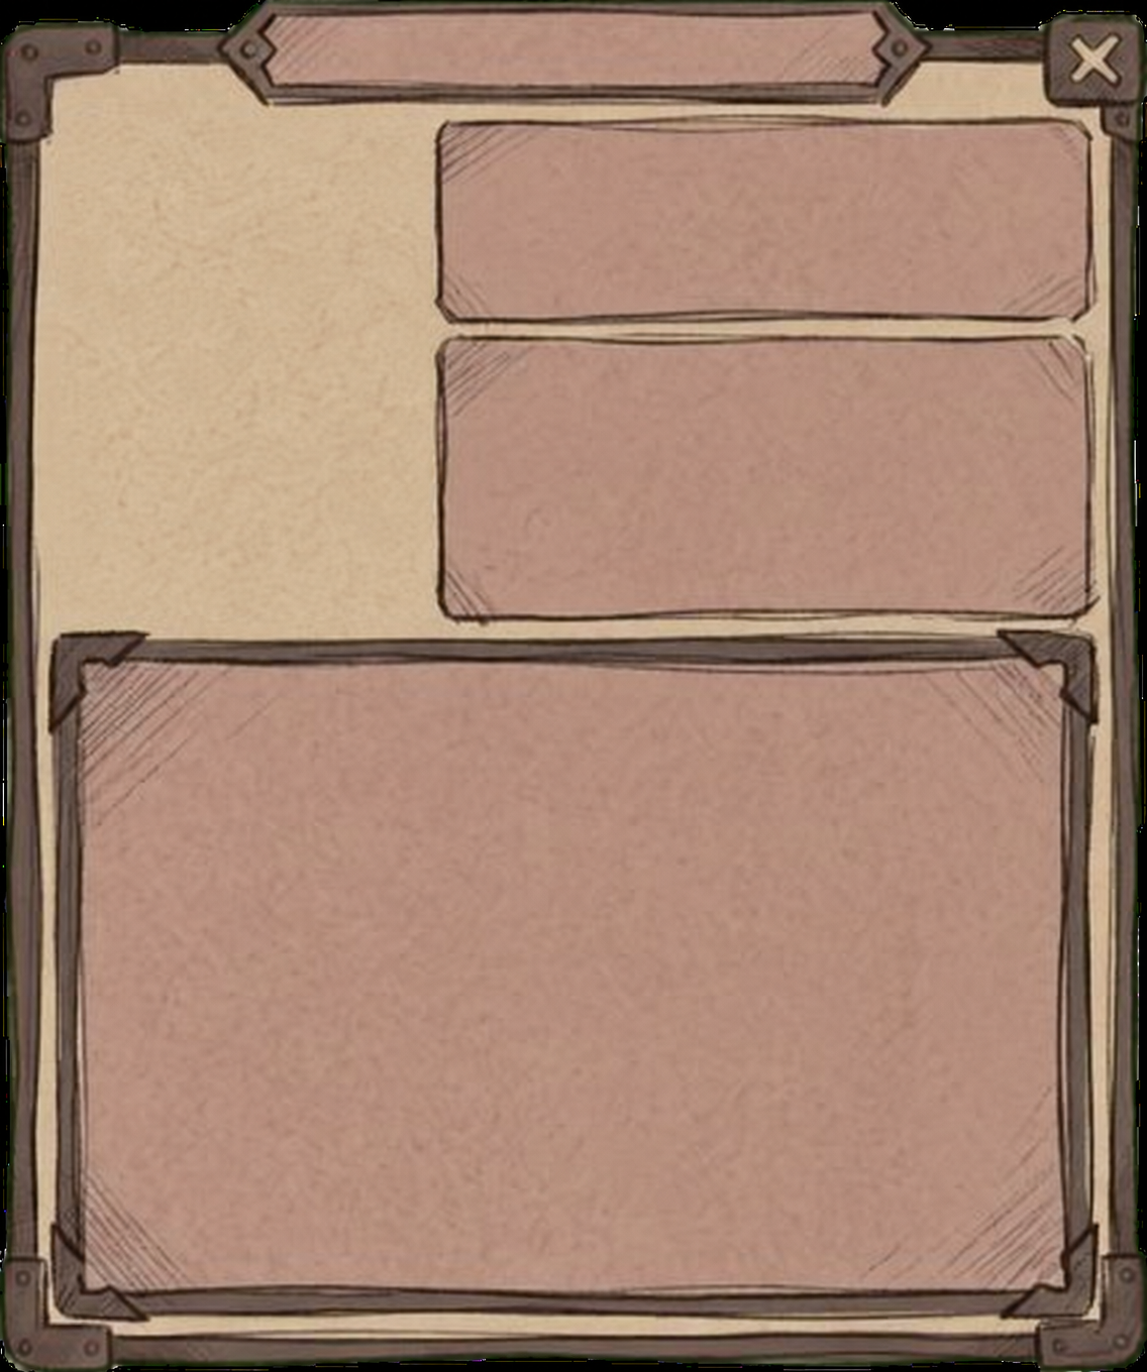
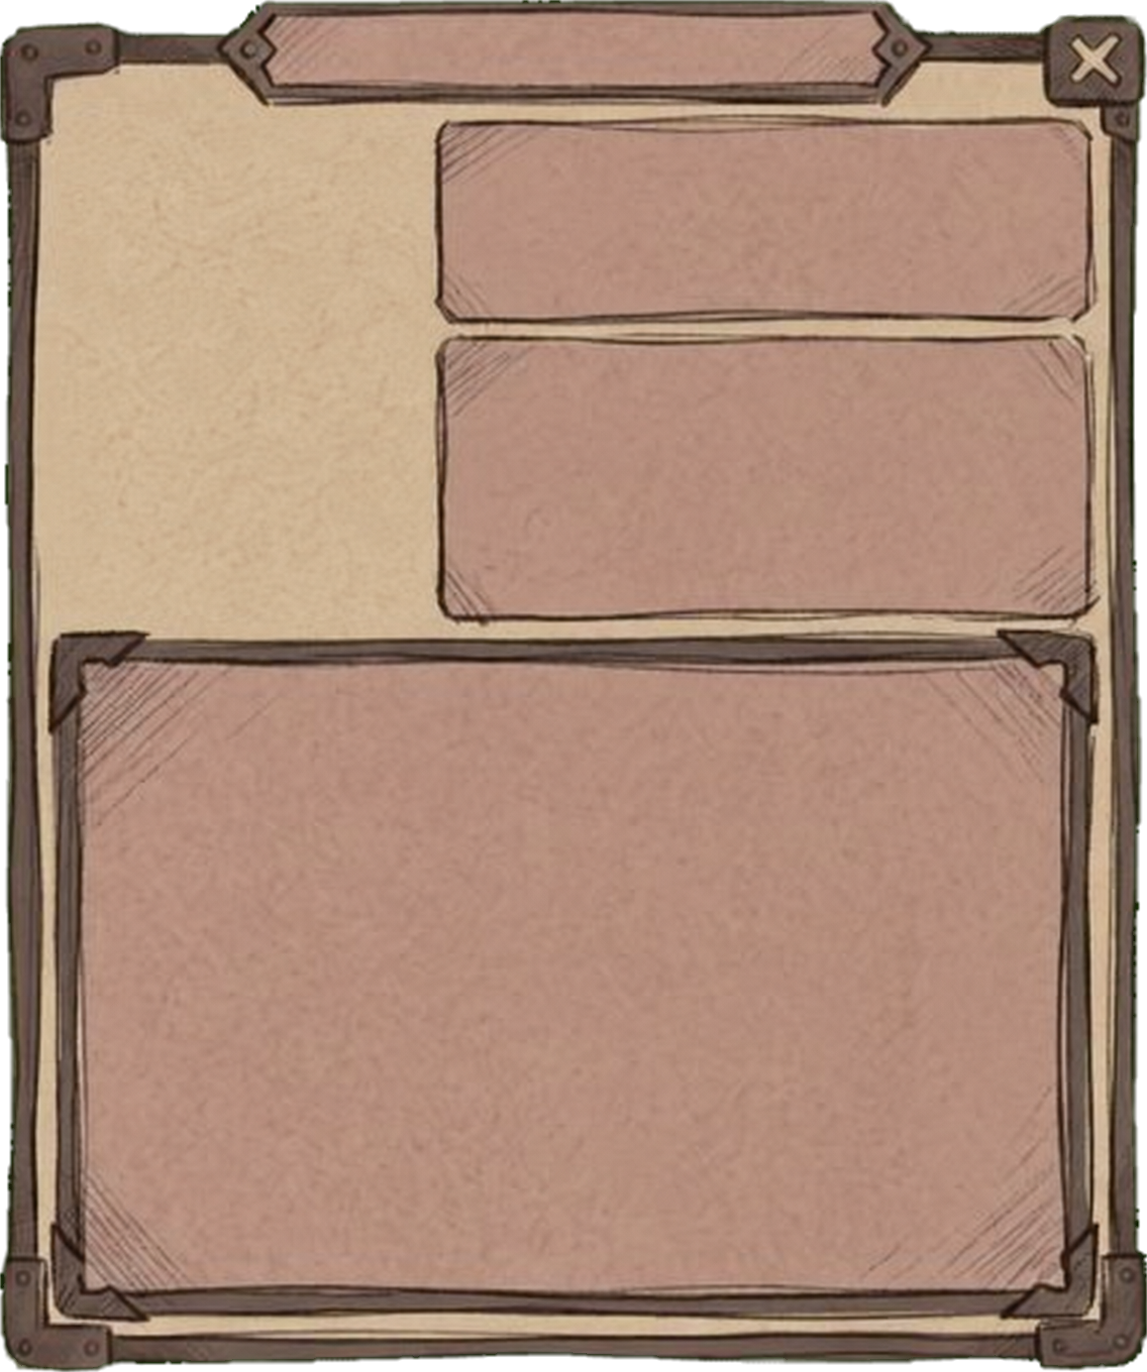
Remove black background from shared unit info window

Changed region(s): [[0.0, 0.0918, 1.0, 1.0], [0.7629, 0.0, 1.0, 0.9184], [0.0, 0.0, 0.2441, 0.0306]]

diff --git a/test_v2_auto_battle.js b/test_v2_auto_battle.js
@@ -32,7 +32,7 @@ assert(html.includes('id="turnDiceButton"'), "Between-turn dice control is missi
 assert(html.includes('id="unitInfoOverlay"'), "Unit information window is missing.");
 assert(html.includes('id="unitInfoImage"'), "Unit information portrait is missing.");
 assert(html.includes('class="unit-info-frame-art"') && html.includes("art/v2-style/ui/unit-info-window-no-portrait.png"), "Portrait-box-free unit information window art is missing.");
-assert(html.includes("unit-info-window-no-portrait.png?v=1"), "Unit information window cache version is stale.");
+assert(html.includes("unit-info-window-no-portrait.png?v=2"), "Unit information window cache version is stale.");
 assert(html.includes("legion-info-window-hd.png?v=2"), "Legion information window cache version is stale.");
 assert(html.includes('id="unitInfoHp"') && html.includes('id="unitInfoAttack"') && html.includes('id="unitInfoSpeed"'), "Basic unit stats are missing.");
 const basicPanel = html.match(/<section class="unit-info-basic"[\s\S]*?<\/section>/)?.[0] || "";
@@ -134,7 +134,7 @@ for (const slug of ["death-knight", "skeleton-spear", "ghoul", "ancient-treant",
   }
 }
 
-assert(worker.includes('necromancer-expedition-v241'), "Service worker cache version was not advanced.");
+assert(worker.includes('necromancer-expedition-v242'), "Service worker cache version was not advanced.");
 assert(worker.includes("v2-auto-battle-practice.html"), "Auto battle page is not cached.");
 assert(worker.includes("v2-auto-battle-practice.css?v=50"), "Turn dice, lineup picker and illustrated unit info styling is not cached.");
 assert(worker.includes("v2-auto-battle-practice.js?v=70") && worker.includes("v2-legions.js?v=3") && worker.includes("v2-battle-brands.js?v=3"), "Turn-based status battle logic is not cached.");
@@ -218,7 +218,7 @@ assert(source.includes("baseMaxHp: data.maxHp") && source.includes("baseAttack: 
 assert(css.includes(".healing-number {") && css.includes("#7cff83"), "Healing feedback must be visibly distinct from damage.");
 assert(source.includes('insect: "벌래"'), "The unit info legion label must use 벌래 instead of 곤충.");
 assert(source.includes('V2Legions.suppressed(legionState, team)') && source.includes("상대 군단 효과 억제 중"), "Element suppression must be visible in the battle UI and unit info.");
-assert(fs.existsSync(path.join(root, "art/v2-style/ui/unit-info-window-no-portrait.png")) && worker.includes("art/v2-style/ui/unit-info-window-no-portrait.png?v=1"), "Portrait-box-free unit info frame must exist and be cached.");
+assert(fs.existsSync(path.join(root, "art/v2-style/ui/unit-info-window-no-portrait.png")) && worker.includes("art/v2-style/ui/unit-info-window-no-portrait.png?v=2"), "Portrait-box-free unit info frame must exist and be cached.");
 // Exercise the real information-window functions without a rendering engine.
 const infoContext = { awaitingRoll: true, diceRolling: false, lastDiceRoll: null, legionState:{}, V2Legions:{active:()=>false,suppressed:()=>false,RULES:{}}, V2BattleBrands: require("./v2-battle-brands.js"), document: { getElementById: () => ({ focus() {} }) } };
 for (const name of ["unitInfoName", "unitInfoImage", "unitInfoPortrait", "unitInfoGrade", "unitInfoLegion", "unitInfoHp", "unitInfoAttack", "unitInfoSpeed", "unitInfoBrands", "legionInfoContent", "unitInfoOverlay"]) infoContext[name] = { textContent: "", hidden: true, attrs: {}, setAttribute(key, value) { this.attrs[key] = value; } };

diff --git a/service-worker.js b/service-worker.js
@@ -1,4 +1,4 @@
-const CACHE_NAME = "necromancer-expedition-v241";
+const CACHE_NAME = "necromancer-expedition-v242";
 const APP_SHELL = [
   "./",
   "./index.html",
@@ -197,7 +197,7 @@ const APP_SHELL = [
   "./art/v2-style/battle-backgrounds/uploaded-raw/wasteland-chasm-battlefield.jpg",
   "./art/v2-style/battle-backgrounds/uploaded-raw/haunted-forest-ruins-battlefield.jpg",
   "./art/v2-style/battle-backgrounds/uploaded-raw/necropolis-pyramids-battlefield.jpg",
-  "./art/v2-style/ui/unit-info-window-no-portrait.png?v=1",
+  "./art/v2-style/ui/unit-info-window-no-portrait.png?v=2",
   "./art/v2-style/ui/info-portraits/abyss-claw-hunter.png?v=1",
   "./art/v2-style/ui/info-portraits/corpse-slime.png?v=1",
   "./art/v2-style/ui/info-portraits/medusa.png?v=1",

diff --git a/v2-auto-battle-practice.html b/v2-auto-battle-practice.html
@@ -42,7 +42,7 @@
       <section id="unitInfoOverlay" class="unit-info-overlay" hidden>
         <button id="unitInfoBackdrop" class="unit-info-backdrop" type="button" aria-label="유닛 정보 닫기"></button>
         <article class="unit-info-panel" role="dialog" aria-modal="true" aria-labelledby="unitInfoName">
-          <img class="unit-info-frame-art" src="art/v2-style/ui/unit-info-window-no-portrait.png?v=1" alt="" aria-hidden="true">
+          <img class="unit-info-frame-art" src="art/v2-style/ui/unit-info-window-no-portrait.png?v=2" alt="" aria-hidden="true">
           <header>
             <span>UNIT STATUS</span>
             <h2 id="unitInfoName">유닛 정보</h2>
